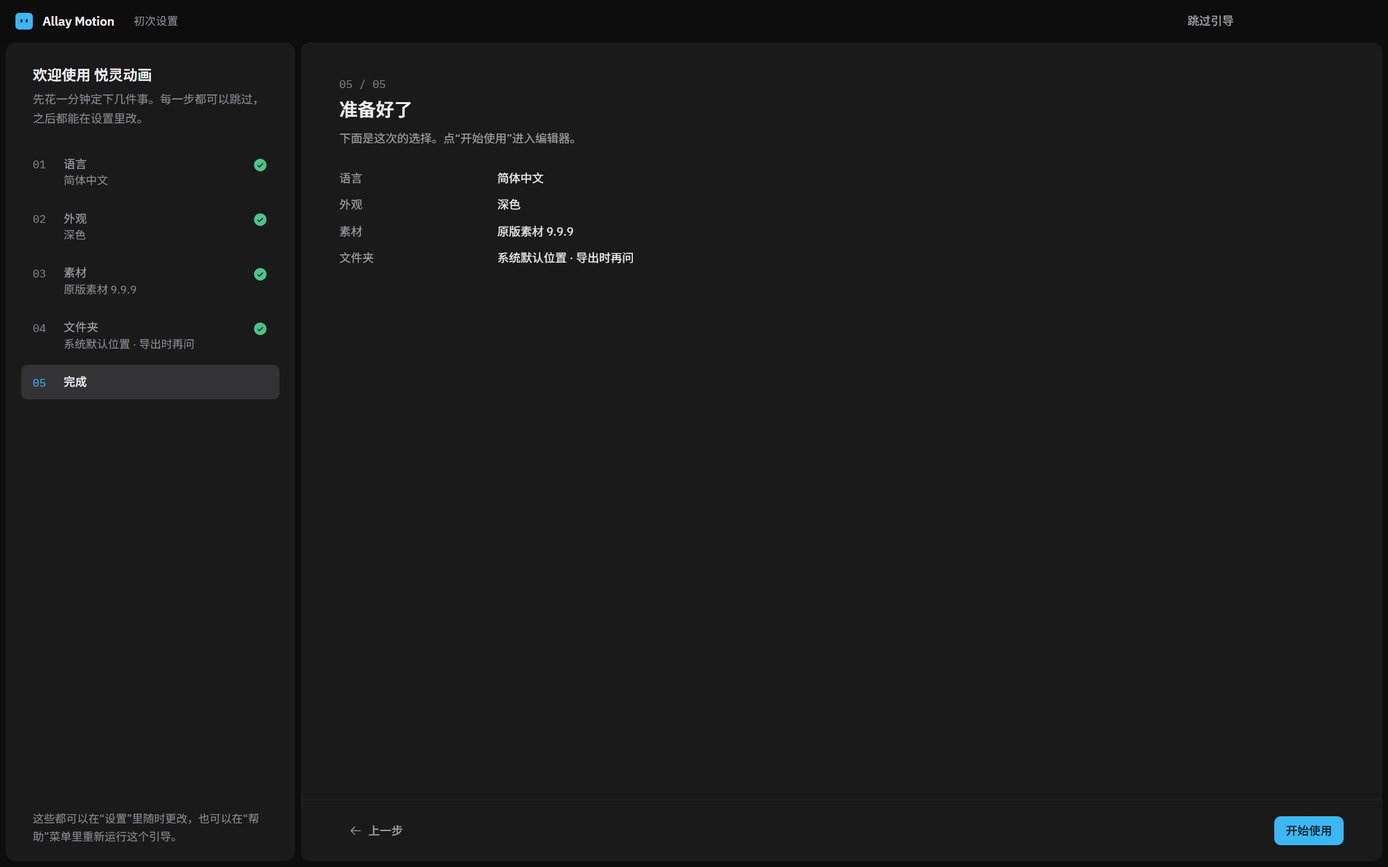
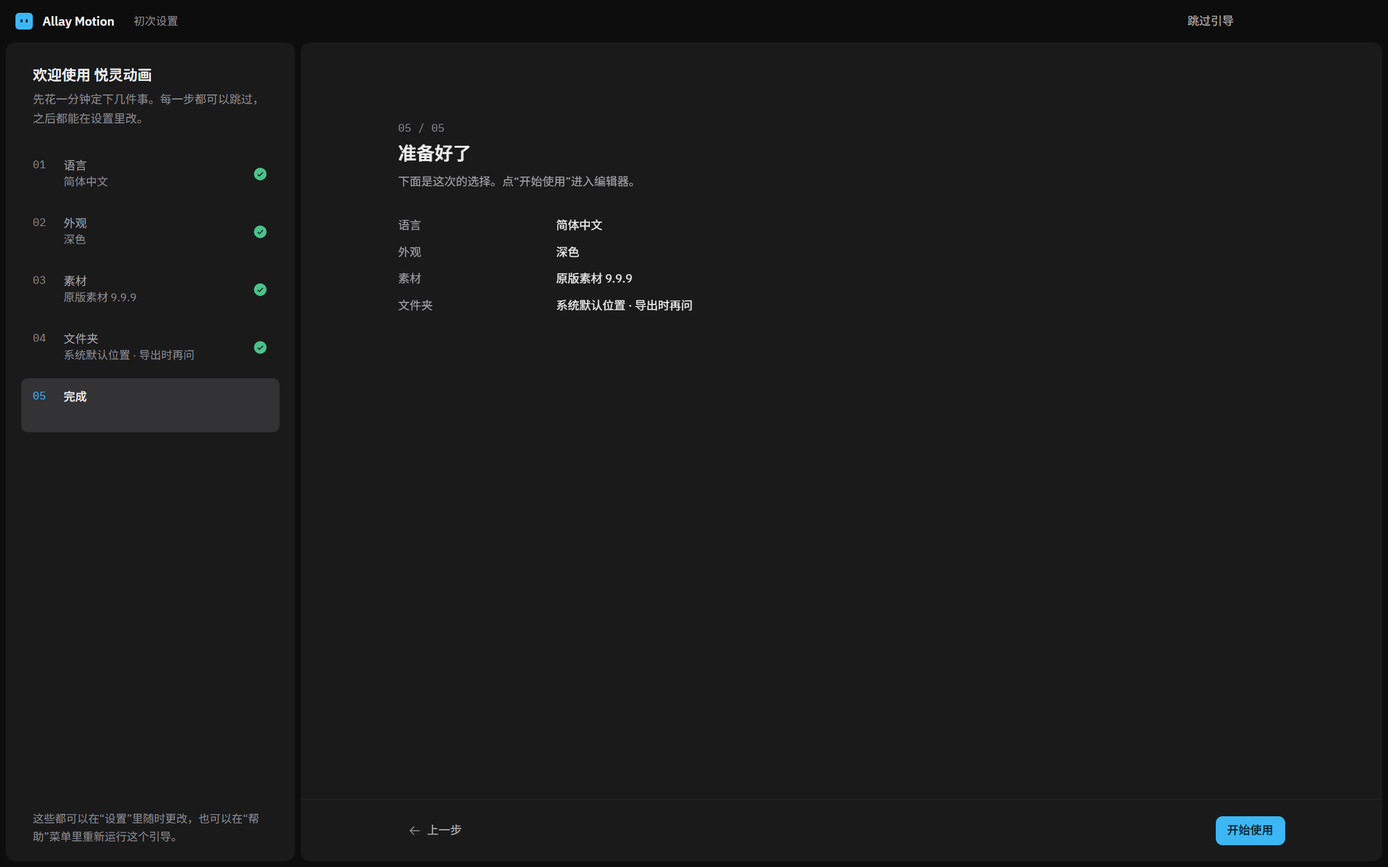
fix(onboarding): 按评审改引导页：选中外框不被裁、语言选项去掉嵌套并加即时预览、版面限宽居中、下载显示速度和剩余时间、步骤列表等高

diff --git a/apps/desktop/src/renderer/features/onboarding/Onboarding.tsx b/apps/desktop/src/renderer/features/onboarding/Onboarding.tsx
@@ -42,17 +42,20 @@ function StepRail({ step, visited, go, summaries }: { step: OnboardingStep; visi
               data-testid={`onboarding-rail-${s}`}
               onClick={() => go(s)}
               className={cn(
-                'flex w-full items-start gap-3 rounded-lg px-3 py-2.5 text-left transition-colors duration-(--dur-2) outline-none',
+                // 每项固定 56 px、两行（名称 + 当前的值），当前步和走过的步高度一样，列表不跳
+                'flex h-14 w-full items-center gap-3 rounded-lg px-3 text-left transition-colors duration-(--dur-2) outline-none',
                 'focus-visible:outline-2 focus-visible:outline-offset-2 focus-visible:outline-(--ring)',
                 active ? 'bg-control-hi' : reachable ? 'hover:bg-control' : 'cursor-default',
               )}
             >
-              <span className={cn('num w-5 shrink-0 pt-px text-xs', active ? 'text-primary-text' : 'text-fg-subtle')}>{String(i + 1).padStart(2, '0')}</span>
+              <span className={cn('num w-5 shrink-0 self-start pt-[11px] text-xs', active ? 'text-primary-text' : 'text-fg-subtle')}>{String(i + 1).padStart(2, '0')}</span>
               <span className="flex min-w-0 flex-1 flex-col gap-0.5">
                 <span className={cn('truncate text-sm', active ? 'font-medium text-foreground' : reachable ? 'text-fg-muted' : 'text-fg-subtle')}>{t(`onboarding.steps.${s}.name`)}</span>
-                {reachable && summaries[s] && <span className="truncate text-xs text-fg-subtle">{summaries[s]}</span>}
+                <span className="h-4 truncate text-xs text-fg-subtle">{reachable && summaries[s] ? summaries[s] : ' '}</span>
               </span>
-              {done && !active && <CheckCircle size={ICON.md} weight="fill" className="mt-px shrink-0 text-success" aria-hidden="true" />}
+              <span className="flex size-4 shrink-0 items-center justify-center" aria-hidden="true">
+                {done && !active && <CheckCircle size={ICON.md} weight="fill" className="text-success" />}
+              </span>
             </button>
           </li>
         );
@@ -64,7 +67,8 @@ function StepRail({ step, visited, go, summaries }: { step: OnboardingStep; visi
 function OptionCard({ icon: IconC, title, detail, selected, disabled, onSelect, testId, children }: { icon: Icon; title: string; detail: ReactNode; selected: boolean; disabled?: boolean; onSelect(): void; testId: string; children?: ReactNode }) {
   return (
     <div
-      className={cn('flex flex-col rounded-lg bg-control transition-colors duration-(--dur-1)', selected && 'bg-control-hi shadow-[0_0_0_2px_var(--surface-1),0_0_0_4px_var(--primary)]', disabled && 'opacity-60')}
+      // 选中只靠外框，底色不变：卡片里的进度条轨道（control-hi）在 control 底上看得见
+      className={cn('flex flex-col rounded-lg bg-control transition-colors duration-(--dur-1)', selected && 'shadow-[0_0_0_2px_var(--surface-1),0_0_0_4px_var(--primary)]', disabled && 'opacity-60')}
       data-testid={testId}
       data-selected={selected || undefined}
     >
@@ -97,7 +101,7 @@ function AssetsStep({ choice, setChoice }: { choice: AssetChoice | null; setChoi
   const active = vanilla.active ? (vanilla.active === 'local' ? vanilla.local?.versionId : vanilla.cached?.versionId) : null;
   const showProgress = download.status !== 'idle';
   return (
-    <div className="flex flex-col gap-3" role="radiogroup" aria-label={t('onboarding.steps.assets.name')}>
+    <div className="-m-1 flex flex-col gap-3 p-1" role="radiogroup" aria-label={t('onboarding.steps.assets.name')}>
       {active && (
         <p className="flex items-center gap-2 text-sm text-foreground" data-testid="onboarding-assets-active">
           <CheckCircle size={ICON.md} weight="fill" className="text-success" />
@@ -153,6 +157,73 @@ function AssetsStep({ choice, setChoice }: { choice: AssetChoice | null; setChoi
       </OptionCard>
       <OptionCard icon={Clock} title={t('onboarding.assets.later.title')} detail={t('onboarding.assets.later.detail')} selected={choice === 'later'} onSelect={() => setChoice('later')} testId="onboarding-asset-later" />
     </div>
+  );
+}
+
+/**
+ * 语言这一步的即时预览：主界面的缩略示意，用当前的主题变量和当前语言的真实文案（菜单、面板标题、轨道名、状态），
+ * 选了语言立刻跟着变。只是示意，不可交互、读屏跳过。
+ */
+function LivePreview() {
+  const { t } = useTranslation();
+  const label = 'text-[9px] leading-none';
+  return (
+    <figure className="flex flex-col gap-2" data-testid="onboarding-preview">
+      <figcaption className="text-xs text-fg-subtle">{t('onboarding.previewLabel')}</figcaption>
+      <div aria-hidden="true" className="flex aspect-[16/11] w-full flex-col gap-[3px] overflow-hidden rounded-lg bg-background p-[4px] select-none">
+        <div className="flex h-[16px] shrink-0 items-center gap-[6px] px-[3px]">
+          <span className="size-[9px] rounded-[2px] bg-allay" />
+          {(['file', 'edit', 'view', 'help'] as const).map((m) => (
+            <span key={m} className={cn(label, 'text-fg-muted')}>
+              {t(`menu.${m}`)}
+            </span>
+          ))}
+          <span className={cn(label, 'ml-auto rounded-[3px] bg-primary px-[5px] py-[2px] font-semibold text-primary-foreground')}>{t('topbar.export')}</span>
+        </div>
+        <div className="grid min-h-0 flex-1 grid-cols-[26%_1fr_28%] gap-[3px]">
+          <div className="flex flex-col gap-[4px] rounded-[5px] bg-surface-1 p-[5px]">
+            <span className={cn(label, 'font-semibold text-foreground')}>{t('gallery.title')}</span>
+            <div className="grid grid-cols-2 gap-[3px]">
+              {[0, 1, 2, 3].map((i) => (
+                <span key={i} className={cn('aspect-video rounded-[2px] bg-well', i === 0 && 'shadow-[0_0_0_1px_var(--primary)]')} />
+              ))}
+            </div>
+          </div>
+          <div className="flex flex-col gap-[4px] rounded-[5px] bg-viewer p-[5px]">
+            <span className={cn(label, 'font-semibold text-foreground')}>{t('preview.title')}</span>
+            <span className="m-auto aspect-video w-[78%] rounded-[2px] bg-(--checker-b)" />
+          </div>
+          <div className="row-span-2 flex flex-col gap-[5px] rounded-[5px] bg-surface-1 p-[5px]">
+            <span className={cn(label, 'font-semibold text-foreground')}>
+              {t('params.tabs.props')} <span className="font-normal text-fg-subtle">{t('params.tabs.output')}</span>
+            </span>
+            {[38, 64, 22, 50].map((w, i) => (
+              <span key={i} className="relative h-[8px] overflow-hidden rounded-[2px] bg-control">
+                <span className="absolute inset-y-0 left-0 bg-primary-soft" style={{ width: `${w}%` }} />
+              </span>
+            ))}
+          </div>
+          <div className="col-span-2 flex flex-col justify-center gap-[3px] rounded-[5px] bg-surface-1 px-[5px] py-[4px]">
+            {(['stages', 'sound', 'cut'] as const).map((k, i) => (
+              <div key={k} className="flex items-center gap-[4px]">
+                <span className={cn(label, 'w-[38px] shrink-0 truncate text-fg-muted')}>{t(`timeline.${k}`)}</span>
+                <span className="flex h-[7px] flex-1 gap-[1px] overflow-hidden rounded-[2px] bg-well">
+                  {i === 0 && (
+                    <>
+                      <span className="w-[42%] bg-stage-enter" />
+                      <span className="w-[10%] bg-stage-hold" />
+                      <span className="w-[42%] bg-stage-exit" />
+                    </>
+                  )}
+                  {i === 2 && <span className="ml-[50%] w-[5px] bg-mark" />}
+                </span>
+              </div>
+            ))}
+          </div>
+        </div>
+        <span className={cn(label, 'shrink-0 px-[3px] pt-[1px] text-fg-subtle')}>{t('status.ready')}</span>
+      </div>
+    </figure>
   );
 }
 
@@ -277,39 +348,44 @@ export function Onboarding() {
         </aside>
 
         <main className="flex min-w-0 flex-1 flex-col rounded-xl bg-surface-1">
-          <div key={step} className="onboarding-step flex min-h-0 flex-1 flex-col">
-            <div className="flex flex-col gap-2 px-10 pt-9 pb-6">
-              <span className="num text-xs text-fg-subtle" data-testid="onboarding-counter">
-                {String(idx + 1).padStart(2, '0')} / {String(ONBOARDING_STEPS.length).padStart(2, '0')}
-              </span>
-              <h2 id="onboarding-title" tabIndex={-1} className="text-xl font-semibold outline-none">
-                {t(`onboarding.steps.${step}.title`)}
-              </h2>
-              <p className="max-w-[64ch] text-sm leading-relaxed text-fg-muted">{t(`onboarding.steps.${step}.body`)}</p>
-            </div>
-            <div className="min-h-0 flex-1 overflow-y-auto px-10 pb-6">
-              <div className="max-w-[760px]">
-                {step === 'language' && <LanguageChoice testId="onboarding-language" />}
-                {step === 'appearance' && (
-                  <div className="flex flex-col gap-6">
-                    <ThemeChoice testId="onboarding-theme" />
-                    <div className="flex items-center justify-between gap-6 border-t border-divider pt-5">
-                      <div className="flex flex-col gap-0.5">
-                        <span className="text-sm">{t('settings.reducedMotion')}</span>
-                        <span className="text-xs text-fg-subtle">{t('settings.reducedMotionHint')}</span>
-                      </div>
-                      <MotionChoice testId="onboarding-motion" />
-                    </div>
-                  </div>
-                )}
-                {step === 'assets' && <AssetsStep choice={assetChoice} setChoice={setAssetChoice} />}
-                {step === 'folders' && <FoldersStep />}
-                {step === 'done' && <DoneStep summaries={summaries} />}
+          {/* 一列限宽、水平居中，从面板上方约十分之一处起排（窗口越高留得越多），标题、内容、底部按钮左右对齐 */}
+          <div key={step} className="onboarding-step min-h-0 flex-1 overflow-y-auto px-10">
+            <div className="mx-auto flex w-full max-w-[920px] flex-col pt-[clamp(28px,9vh,104px)] pb-8">
+              <div className="flex flex-col gap-2 pb-7">
+                <span className="num text-xs text-fg-subtle" data-testid="onboarding-counter">
+                  {String(idx + 1).padStart(2, '0')} / {String(ONBOARDING_STEPS.length).padStart(2, '0')}
+                </span>
+                <h2 id="onboarding-title" tabIndex={-1} className="text-xl font-semibold outline-none">
+                  {t(`onboarding.steps.${step}.title`)}
+                </h2>
+                <p className="max-w-[64ch] text-sm leading-relaxed text-fg-muted">{t(`onboarding.steps.${step}.body`)}</p>
               </div>
+              {step === 'language' && (
+                <div className="grid grid-cols-[minmax(0,1fr)_minmax(0,400px)] items-start gap-10">
+                  <LanguageChoice testId="onboarding-language" />
+                  <LivePreview />
+                </div>
+              )}
+              {step === 'appearance' && (
+                <div className="flex flex-col gap-6">
+                  <ThemeChoice testId="onboarding-theme" />
+                  <div className="flex items-center justify-between gap-6 border-t border-divider pt-5">
+                    <div className="flex flex-col gap-0.5">
+                      <span className="text-sm">{t('settings.reducedMotion')}</span>
+                      <span className="text-xs text-fg-subtle">{t('settings.reducedMotionHint')}</span>
+                    </div>
+                    <MotionChoice testId="onboarding-motion" />
+                  </div>
+                </div>
+              )}
+              {step === 'assets' && <AssetsStep choice={assetChoice} setChoice={setAssetChoice} />}
+              {step === 'folders' && <FoldersStep />}
+              {step === 'done' && <DoneStep summaries={summaries} />}
             </div>
           </div>
 
-          <footer className="flex h-16 shrink-0 items-center gap-2 border-t border-divider px-10">
+          <footer className="shrink-0 border-t border-divider px-10">
+            <div className="mx-auto flex h-16 w-full max-w-[920px] items-center gap-2">
             <Button variant="ghost" disabled={idx === 0} data-testid="onboarding-back" onClick={back}>
               <ArrowLeft size={ICON.sm} />
               {t('onboarding.back')}
@@ -330,6 +406,7 @@ export function Onboarding() {
                 <ArrowRight size={ICON.sm} />
               </Button>
             )}
+            </div>
           </footer>
         </main>
       </div>

diff --git a/apps/desktop/src/renderer/features/settings/choices.tsx b/apps/desktop/src/renderer/features/settings/choices.tsx
@@ -23,7 +23,7 @@ function TileGroup<T extends string>({ label, value, options, onChange, render, 
     requestAnimationFrame(() => document.querySelector<HTMLElement>(`[data-testid="${testId}-${next}"]`)?.focus());
   };
   return (
-    <div role="radiogroup" aria-label={label} className="grid gap-3" style={{ gridTemplateColumns: `repeat(${columns}, minmax(0, 1fr))` }} data-testid={testId}>
+    <div role="radiogroup" aria-label={label} className="-m-1 grid gap-3 p-1" style={{ gridTemplateColumns: `repeat(${columns}, minmax(0, 1fr))` }} data-testid={testId}>
       {options.map((o, i) => {
         const selected = o === value;
         return (
@@ -125,7 +125,10 @@ export function ThemeChoice({ testId = 'choice-theme' }: { testId?: string }) {
   );
 }
 
-/** 语言的选项里各用自己的语言写（选错了也认得出来）；“跟随系统”注明现在解析成哪一种 */
+/**
+ * 语言：一列三行。每行只有两样东西——语言名（用那种语言自己的写法）和一行说明（也用那种语言写，选错了也认得出来；
+ * “跟随系统”写现在会解析成哪种），选中的对勾固定在右侧。
+ */
 export function LanguageChoice({ testId = 'choice-language' }: { testId?: string }) {
   const { t } = useTranslation();
   const language = useUiStore((s) => s.settings.language);
@@ -135,23 +138,23 @@ export function LanguageChoice({ testId = 'choice-language' }: { testId?: string
       label={t('settings.language')}
       value={language}
       options={LANGUAGE_PREFS}
-      columns={3}
+      columns={1}
       testId={testId}
       onChange={(v) => useUiStore.getState().update({ language: v })}
       render={(v, selected) => {
         const fixed = i18next.getFixedT(resolved(v));
+        const name = v === 'system' ? t('settings.languages.system') : fixed(`settings.languages.${v}`);
+        const desc = v === 'system' ? t('onboarding.language.systemNow', { language: t(`settings.languages.${resolved(v)}`) }) : fixed('onboarding.language.desc');
         return (
-          <>
-            <span className="flex h-16 flex-col justify-end gap-1 rounded-md bg-well px-3 py-2.5">
-              <span className="truncate text-base font-semibold text-foreground">{v === 'system' ? t('settings.languages.system') : fixed(`settings.languages.${v}`)}</span>
-              <span className="truncate text-xs text-fg-subtle">{fixed('onboarding.language.sample')}</span>
+          <span className="flex min-h-12 items-center gap-4 px-2">
+            <span className="flex min-w-0 flex-1 flex-col gap-1">
+              <span className={cn('truncate text-base', selected ? 'font-semibold text-foreground' : 'font-medium text-fg-muted')}>{name}</span>
+              <span className="truncate text-xs text-fg-subtle">{desc}</span>
             </span>
-            {/* 名称已经在上面用那种语言写了；下面一行只放“跟随系统”现在解析成哪种，和选中的对勾 */}
-            <span className="flex min-h-5 items-center justify-between gap-2 px-0.5">
-              <span className="truncate text-xs text-fg-subtle">{v === 'system' ? t('onboarding.language.systemDetail', { language: t(`settings.languages.${resolved(v)}`) }) : ''}</span>
-              {selected && <Check size={ICON.sm} weight="bold" className="shrink-0 text-primary-text" aria-hidden="true" />}
+            <span className="flex size-4 shrink-0 items-center justify-center" aria-hidden="true">
+              {selected && <Check size={ICON.md} weight="bold" className="text-primary-text" />}
             </span>
-          </>
+          </span>
         );
       }}
     />

diff --git a/scripts/review-ux-wave.ts b/scripts/review-ux-wave.ts
@@ -43,15 +43,15 @@ const next = async (p: Page, n = 1) => {
   }
 };
 
-async function startDownload(p: Page, server: FakeMojang, mode: 'hold' | 'fail'): Promise<void> {
+async function startDownload(p: Page, server: FakeMojang, mode: 'slow' | 'fail'): Promise<void> {
   server.jarMode = mode;
   await next(p, 2);
   await p.getByTestId('onboarding-asset-download').getByRole('radio').click();
   await p.getByTestId('onboarding').getByTestId('vanilla-download').click();
-  if (mode === 'hold') {
-    for (let i = 0; i < 100 && !server.holding(); i++) await p.waitForTimeout(100);
-  } else await p.getByTestId('onboarding').getByTestId('download-error').waitFor();
-  await p.waitForTimeout(900);
+  // 限速时等到读数里有速度（约 9 秒下完，截在一半左右）
+  if (mode === 'slow') await p.getByTestId('onboarding').getByTestId('download-numbers').filter({ hasText: '/s' }).waitFor({ timeout: 15_000 });
+  else await p.getByTestId('onboarding').getByTestId('download-error').waitFor();
+  await p.waitForTimeout(mode === 'slow' ? 2500 : 900);
 }
 
 async function openSettings(p: Page, page: string): Promise<void> {
@@ -78,8 +78,8 @@ const SCENES: Scene[] = [
       await p.waitForTimeout(300);
     },
   },
-  { name: 'onboarding-download-running-dark-zh', theme: 'dark', language: 'zh-CN', firstRun: true, act: (p, { server }) => startDownload(p, server, 'hold') },
-  { name: 'onboarding-download-running-light-en', theme: 'light', language: 'en', firstRun: true, act: (p, { server }) => startDownload(p, server, 'hold') },
+  { name: 'onboarding-download-running-dark-zh', theme: 'dark', language: 'zh-CN', firstRun: true, act: (p, { server }) => startDownload(p, server, 'slow') },
+  { name: 'onboarding-download-running-light-en', theme: 'light', language: 'en', firstRun: true, act: (p, { server }) => startDownload(p, server, 'slow') },
   { name: 'onboarding-download-failed-dark-en', theme: 'dark', language: 'en', firstRun: true, act: (p, { server }) => startDownload(p, server, 'fail') },
   {
     name: 'onboarding-folders-light-zh',
@@ -168,11 +168,11 @@ const SCENES: Scene[] = [
     theme: 'dark',
     language: 'zh-CN',
     act: async (p, { server }) => {
-      server.jarMode = 'hold';
+      server.jarMode = 'slow';
       await p.getByTestId('resources-button').click();
       await p.getByTestId('resources-popover').getByTestId('vanilla-download').click();
-      for (let i = 0; i < 100 && !server.holding(); i++) await p.waitForTimeout(100);
-      await p.waitForTimeout(900);
+      await p.getByTestId('resources-popover').getByTestId('download-numbers').filter({ hasText: '/s' }).waitFor({ timeout: 15_000 });
+      await p.waitForTimeout(2500);
     },
   },
 ];

diff --git a/tests/e2e/fake-mojang.ts b/tests/e2e/fake-mojang.ts
@@ -6,7 +6,8 @@ import { buildZip, type ZipEntrySpec } from '../unit/helpers/resource-fixtures';
 
 const sha1 = (b: Buffer) => createHash('sha1').update(b).digest('hex');
 
-export type JarMode = 'ok' | 'fail' | 'hold';
+/** slow：限速，jar 分 60 份、每 150 ms 一份（约 9 秒），界面上能看到速度和剩余时间 */
+export type JarMode = 'ok' | 'fail' | 'hold' | 'slow';
 
 export interface FakeMojang {
   origin: string;
@@ -80,6 +81,23 @@ export async function startFakeMojang(versionId: string, jarEntries: readonly Zi
         res.on('close', () => {
           if (holding === res) holding = null;
         });
+        return;
+      }
+      if (state.jarMode === 'slow') {
+        res.writeHead(200, { 'content-length': String(jar.length) });
+        const parts = 60;
+        let i = 0;
+        const timer = setInterval(() => {
+          if (res.destroyed) return clearInterval(timer);
+          const a = Math.floor((i * jar.length) / parts);
+          const b = Math.floor(((i + 1) * jar.length) / parts);
+          i += 1;
+          if (i >= parts) {
+            clearInterval(timer);
+            res.end(jar.subarray(a, b));
+          } else res.write(jar.subarray(a, b));
+        }, 150);
+        res.on('close', () => clearInterval(timer));
         return;
       }
       return void res.writeHead(200, { 'content-length': String(jar.length) }).end(jar);

diff --git a/tests/e2e/ux-wave.spec.ts b/tests/e2e/ux-wave.spec.ts
@@ -142,9 +142,18 @@ test.describe('T-UX-6 引导里下载原版资源（本机假服务器）', () =
       // 点“开始下载”之前一个请求都没有
       expect(server.requests).toEqual([]);
 
+      // 限速下载：下载进行中显示速度和剩余时间；然后取消
+      server.jarMode = 'slow';
+      await ob.getByTestId('vanilla-download').click();
+      await expect(ob.getByTestId('download-progress')).toHaveAttribute('data-stage', 'jar', { timeout: 15_000 });
+      await expect(ob.getByTestId('download-numbers')).toContainText('/s', { timeout: 10_000 });
+      await expect(ob.getByTestId('download-numbers')).toContainText(/秒|s left/);
+      await ob.getByTestId('download-cancel').click();
+      await expect(ob.getByTestId('download-progress')).toHaveAttribute('data-status', 'canceled');
+
       // 取消：jar 发了一半停住
       server.jarMode = 'hold';
-      await ob.getByTestId('vanilla-download').click();
+      await ob.getByTestId('download-retry').click();
       const progress = ob.getByTestId('download-progress');
       await expect(progress).toHaveAttribute('data-status', 'running');
       await expect.poll(() => server.holding(), { timeout: 15_000 }).toBe(true);

diff --git a/apps/desktop/src/renderer/features/resources/DownloadProgress.tsx b/apps/desktop/src/renderer/features/resources/DownloadProgress.tsx
@@ -139,7 +139,7 @@ export function DownloadProgress({ state, size = 'compact', onRetry }: { state: 
       </ol>
 
       {state.status === 'running' && (
-        <Button variant="secondary" className="self-start" data-testid="download-cancel" onClick={() => void window.allay.resources.cancelDownload()}>
+        <Button variant="secondary" className={cn('self-start', large && 'bg-control-hi hover:bg-well')} data-testid="download-cancel" onClick={() => void window.allay.resources.cancelDownload()}>
           {t('resources.download.cancel')}
         </Button>
       )}
@@ -159,7 +159,7 @@ export function DownloadProgress({ state, size = 'compact', onRetry }: { state: 
         </p>
       )}
       {(state.status === 'failed' || state.status === 'canceled') && (
-        <Button variant="secondary" className="self-start" data-testid="download-retry" onClick={retry}>
+        <Button variant="secondary" className={cn('self-start', large && 'bg-control-hi hover:bg-well')} data-testid="download-retry" onClick={retry}>
           <ArrowClockwise size={ICON.sm} />
           {t('resources.download.retry')}
         </Button>

diff --git a/docs/06-ui-design.md b/docs/06-ui-design.md
@@ -368,12 +368,14 @@
 新装后第一次启动时出现（设置文件不存在时；已有设置文件、只是没有这个标记的老用户不出现）。整页盖住主界面，和主界面同一套语言：底色上一条 44 px 的顶栏（悦灵头像、字标、“初次设置”、右侧“跳过引导”），下面两块留缝 6 px 的圆角面板。
 
 - 左栏（300 px，`surface-1`）：欢迎语（`welcome`，产品名经 `brand.name` 插入）、一句说明、步骤列表、底部一行“之后都能在设置里改”。每一步一行：等宽的两位编号、名称、当前选的值（第三级灰）；当前步是控件高亮底、编号用强调文字色；走过的步骤可以点回去，右侧是成功色的对勾。
-- 右栏（`surface-1`）：上方等宽的“02 / 05”、19 px 半粗标题、一段说明；中间是这一步的内容；底部 64 px 一条：左“上一步”，右“跳过这一步”和“继续”（实心强调色，最后一步是“开始使用”）。
+- 右栏（`surface-1`）：内容是一列限宽 920 px、水平居中，从面板上方 clamp(28px, 9vh, 104px) 处起排：等宽的“02 / 05”、19 px 半粗标题、一段说明，下面是这一步的内容；底部 64 px 一条（和内容列左右对齐）：左“上一步”，右“跳过这一步”和“继续”（实心强调色，最后一步是“开始使用”）。
+- 左栏每一步固定 56 px、两行（名称和当前的值，没有值时留空行），当前步和走过的步高度一致。
+- 选中的外框画在元素外 4 px，可滚动容器里给选项区留出 4 px 内边距，外框不被裁掉。素材的选项卡选中时只加外框、不换底色，卡片里的进度条轨道才看得见。
 - 五步：
 
 | # | 步骤 | 内容 | 生效 |
 |---|---|---|---|
-| 1 | 语言 | 三块选项：跟随系统（注明现在解析成哪种）、简体中文、English，每块里用那种语言写名称和一句示例 | 选了立即切换 |
+| 1 | 语言 | 一列三行：跟随系统、简体中文、English。每行只有语言名（用那种语言自己的写法）和一行说明（“跟随系统”写现在会解析成哪种，另两行用各自的语言写“界面、菜单和提示都用…”），对勾固定在右侧。右边一块 400 px 宽的即时预览：主界面的缩略示意，用当前主题的设计变量和当前语言的真实文案（菜单、面板标题、轨道名、状态），选了立即跟着变 | 选了立即切换 |
 | 2 | 外观 | 两块主题选项（用那套主题的设计变量画的小工作区缩略图），下面一行“减少动效”分段控件 | 选了立即切换 |
 | 3 | 素材 | 三张选项卡：下载原版资源 / 使用本机已安装的游戏 / 稍后再说。选“下载”后才展开 3.4 的说明和同意文字和“开始下载”按钮，点了才联网；下载中换成 6.12 的大号进度（带悦灵）。本机找到游戏时第二张写版本和目录，并有“使用本机的 Minecraft {版本}”；没找到时是“查找游戏目录…” | 按钮触发 |
 | 4 | 文件夹 | 工程默认保存文件夹、导出文件夹两行（同 6.11） | 选了立即记进设置 |
